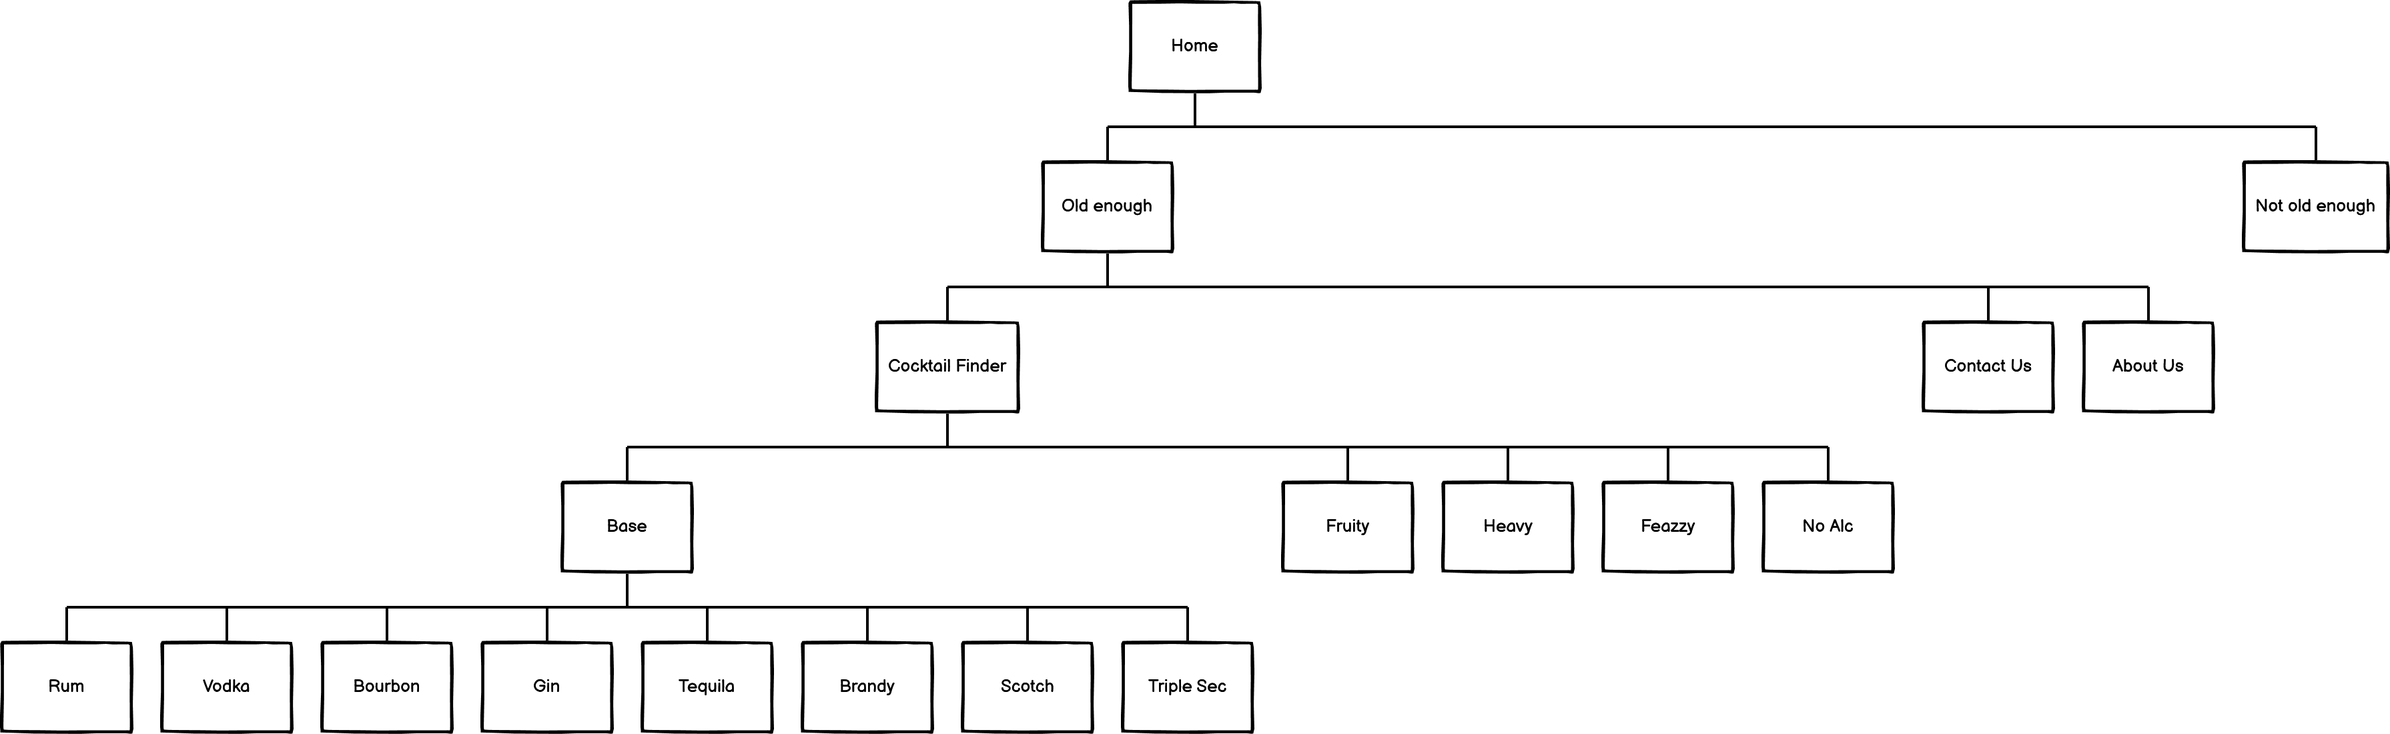
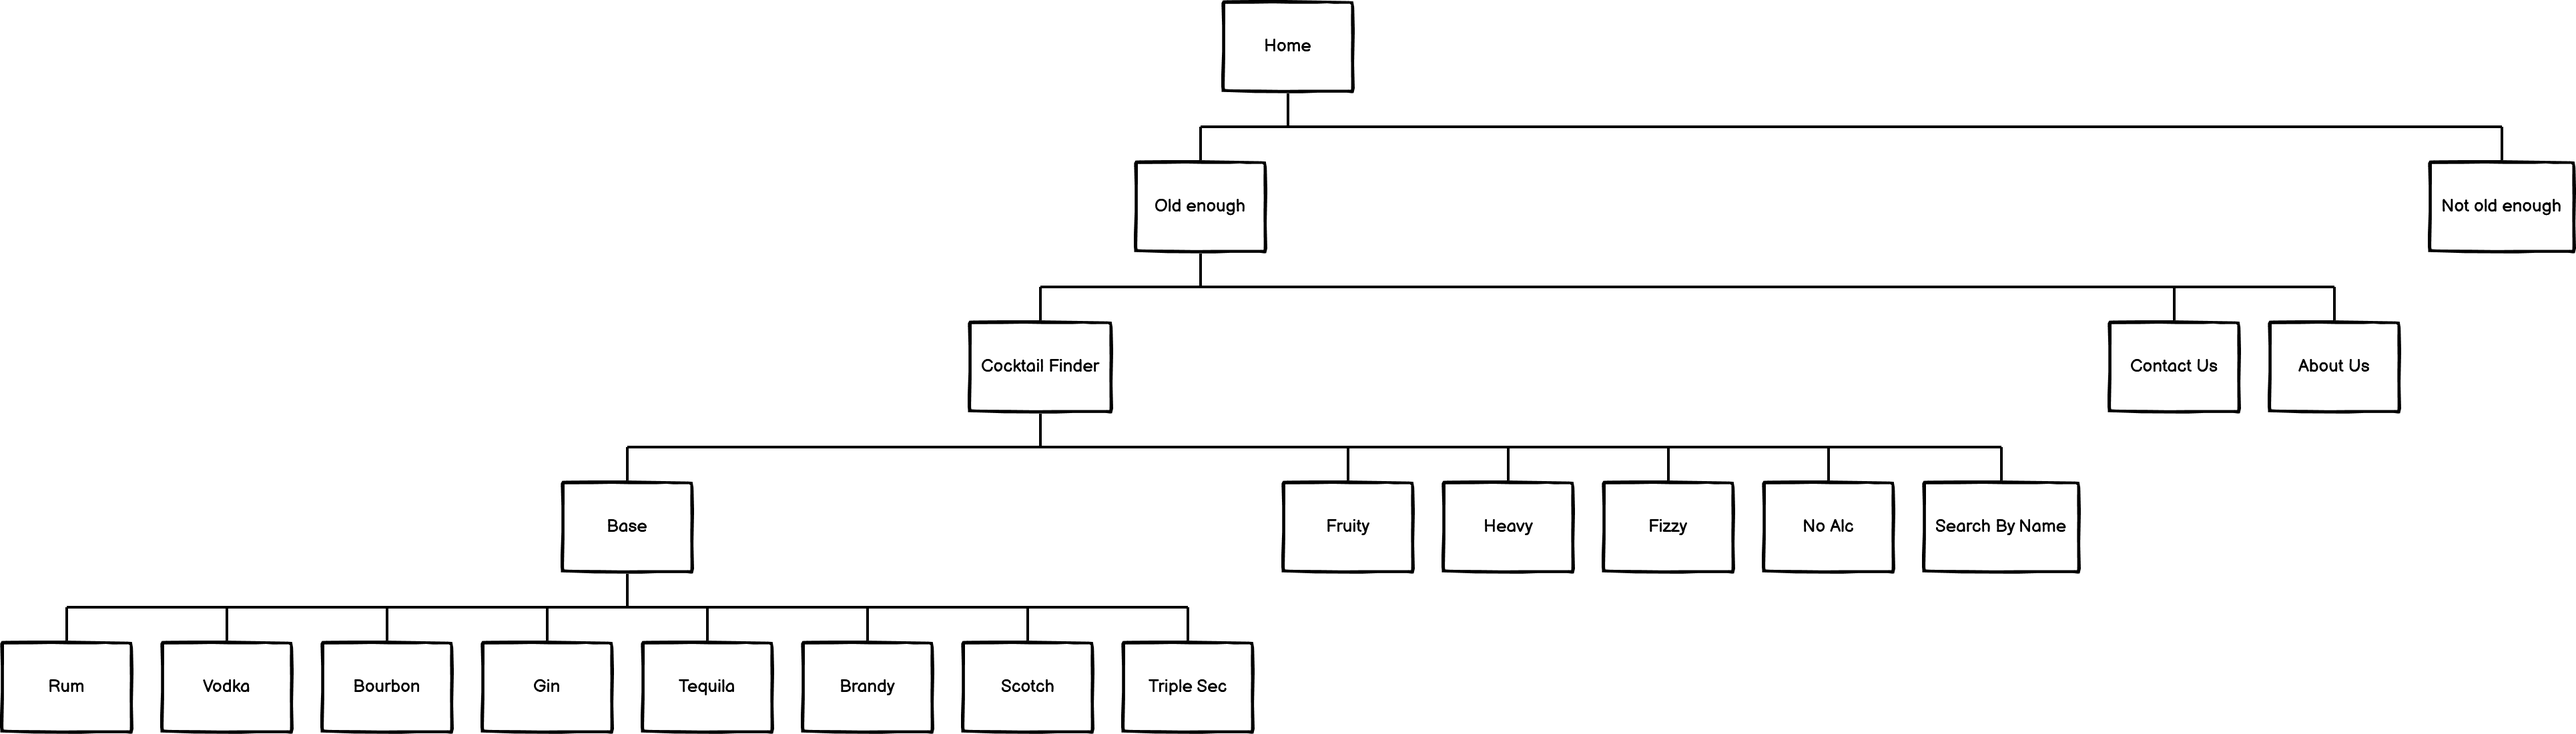
Update wareframes, add original version

diff --git a/README.md b/README.md
@@ -94,6 +94,13 @@ The first draft:
 **What is the problem this user requires solving**: Creating a cocktail with what I have at home. This could be to use up a particular bottle I have lying around and want to get rid of, creating a potion to imbibe with what I have on hand, exploring new ways of enjoying old favourites or impressing my friends with perfectly crafted beverages. Being able to make drinks that, at a base level, meet the standard I could expect in any bar I visit. I need to be able to **search for ingredient-specific drinks**, **look up specific drinks** or simply **browse a library** on the day before the party to see what I can conjur up to wow my guests. Information needs to be easily obtained and site feel needs to be intuitive so as to be able to be used on the fly. <br>
 
 ## R5 Wireframes
+First attempt
+<img src="./docs/wireframes/wireframes_v0.1.png" alt="First Try"><br/><br/>
+Changes:
+- The map of the site 
+- added sub categories as Base Alc, Search By Name
+- Added age validation 
+
 ### Sitemap
 <img src="./docs/wireframes/Map.png" alt="Site Map"><br/><br/>
 ### Wireframes size 1024px
